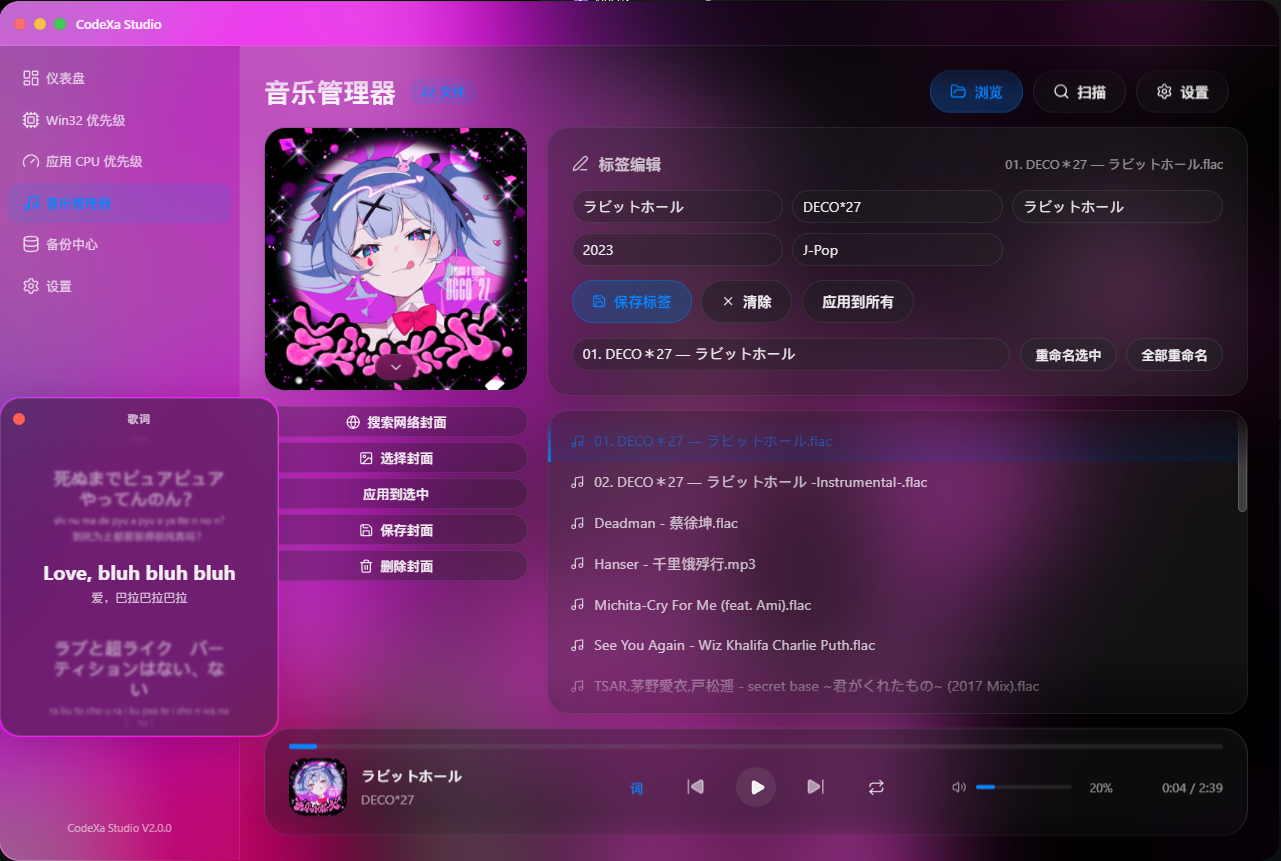
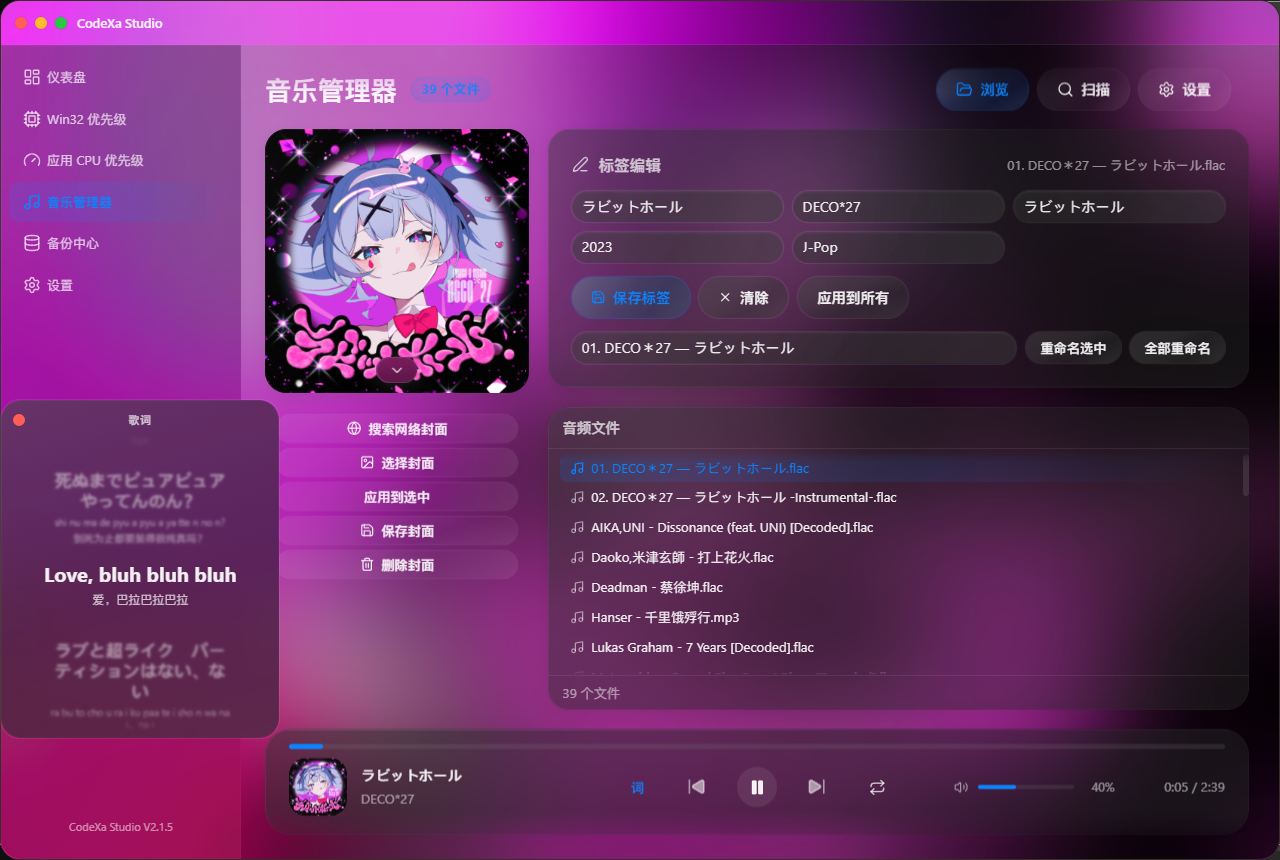
chore: 更新截图、系统信息、进度条组件和仪表盘/音乐页面

diff --git a/src/pages/MusicManager.tsx b/src/pages/MusicManager.tsx
@@ -1,11 +1,11 @@
-import { useState, useEffect, useRef } from "react";
+import { useState, useEffect, useRef } from "react";
 import { motion, AnimatePresence } from "framer-motion";
 import {
   FolderOpen, Search, Save, Image, X, Play, Pause, Settings,
   SkipBack, SkipForward, Repeat, Shuffle, StopCircle,
-  Volume2, Trash2, Music, Edit3, ChevronUp, Globe
+  Volume2, Trash2, Edit3, ChevronUp, Globe
 } from "lucide-react";
-import { GlassCard, GlassButton, GlassInput, GlassSurface, GlassEmptyState, GlassBadge, GlassTooltip } from "@/design-system/components";
+import { GlassCard, GlassButton, GlassInput, GlassSurface, GlassBadge, GlassTooltip } from "@/design-system/components";
 import { space, fontSizes, radii } from "@/design-system/tokens";
 import { useLanguage } from "@/contexts/LanguageContext";
 import { useToast } from "@/contexts/ToastContext";
@@ -764,19 +764,8 @@ export default function MusicManager({ onNavigate, fluidSettings: externalSettin
         </div>
       </div>
 
-      {/* Empty State */}
-      {files.length === 0 && (
-        <GlassEmptyState
-          icon={<Music size={48} style={{ color: "var(--text-tertiary)", opacity: 0.4 }} />}
-          title={tx.noFiles}
-          description={tx.formats}
-          action={<GlassButton variant="primary" onClick={browse}><FolderOpen size={14} /> {tx.browse}</GlassButton>}
-        />
-      )}
-
       {/* Main Content */}
-      {files.length > 0 && (
-        <>
+      <>
           <div style={{
             flex: 1, minHeight: 0,
             display: "grid",
@@ -943,8 +932,7 @@ export default function MusicManager({ onNavigate, fluidSettings: externalSettin
             values={lyricsSettings}
             onChange={(v) => { setLyricsSettings(v); saveLyricsSettings(v); }}
           />
-        </>
-      )}
+      </>
     </motion.div>
   );
 }

diff --git a/src/pages/Dashboard.tsx b/src/pages/Dashboard.tsx
@@ -135,19 +135,35 @@ const lastItemStyle: React.CSSProperties = {
   padding: `${space[2]}px 0`,
 };
 
+// Module-level cache to avoid reset on page re-entry
+let cachedSysInfo: SystemInfo | null = null;
+
 export default function Dashboard({ onNavigate }: DashboardProps) {
   const { lang } = useLanguage();
   const tx = t[lang];
-  const [sysInfo, setSysInfo] = useState<SystemInfo | null>(null);
+  const [sysInfo, setSysInfo] = useState<SystemInfo | null>(cachedSysInfo);
   const [activities, setActivities] = useState<ActivityEntry[]>([]);
   const [backups, setBackups] = useState<BackupEntry[]>([]);
   const [loadingBackups, setLoadingBackups] = useState(true);
+
+  // Track last known-good CPU% to prevent spurious 0 overwrites
+  let lastGoodCpu = cachedSysInfo?.cpu_percent ?? 0;
 
   useEffect(() => {
     const fetchSysInfo = async () => {
       try {
         const result = await window.electronAPI?.python.call("system.info");
-        if (result) setSysInfo(result);
+        if (result) {
+          // Guard: if bridge cold-start returns cpu_percent=0 but we have a
+          // reasonable cached value, keep the cached cpu_percent.
+          if (result.cpu_percent === 0 && lastGoodCpu > 0) {
+            result.cpu_percent = lastGoodCpu;
+          } else if (result.cpu_percent > 0) {
+            lastGoodCpu = result.cpu_percent;
+          }
+          cachedSysInfo = result;
+          setSysInfo(result);
+        }
       } catch {}
     };
     fetchSysInfo();

diff --git a/src/design-system/components/GlassProgressBar.tsx b/src/design-system/components/GlassProgressBar.tsx
@@ -9,8 +9,6 @@
  */
 
 import { forwardRef } from "react";
-import { motion } from "framer-motion";
-import { springDefault } from "../animations";
 import { radii, space } from "../tokens";
 
 export type ProgressColor = "accent" | "success" | "warning" | "danger";
@@ -76,17 +74,16 @@ export const GlassProgressBar = forwardRef<HTMLDivElement, GlassProgressBarProps
             position: "relative",
           }}
         >
-          <motion.div
-            initial={{ width: 0 }}
-            animate={{ width: `${pct}%` }}
-            transition={springDefault}
+          <div
             style={{
+              width: `${pct}%`,
               height: "100%",
               borderRadius: radii.full,
               background: barColor,
               position: "absolute",
               left: 0,
               top: 0,
+              transition: "width 0.5s cubic-bezier(0.25, 0.1, 0.25, 1.0)",
             }}
           />
           {showLabel && labelPosition === "inside" && (

diff --git a/electron/rpc/system.js b/electron/rpc/system.js
@@ -9,12 +9,18 @@ let prevCpuTotal = 0;
 // calculation returns a real percentage instead of 0.
 function primeCpuTimes() {
   const cpus = os.cpus();
+  let idle = 0, total = 0;
   for (const cpu of cpus) {
-    prevCpuIdle += cpu.times.idle;
-    prevCpuTotal += cpu.times.user + cpu.times.nice + cpu.times.sys + cpu.times.idle + cpu.times.irq;
+    idle += cpu.times.idle;
+    total += cpu.times.user + cpu.times.nice + cpu.times.sys + cpu.times.idle + cpu.times.irq;
   }
+  prevCpuIdle = idle;
+  prevCpuTotal = total;
 }
 primeCpuTimes();
+// Re-prime after 500ms to ensure the first getCpuPercent() call has a meaningful delta
+// even when the module is lazy-loaded right before the first request.
+setTimeout(primeCpuTimes, 500);
 
 /** Compute CPU percentage via os.cpus() delta between successive calls. */
 function getCpuPercent() {
